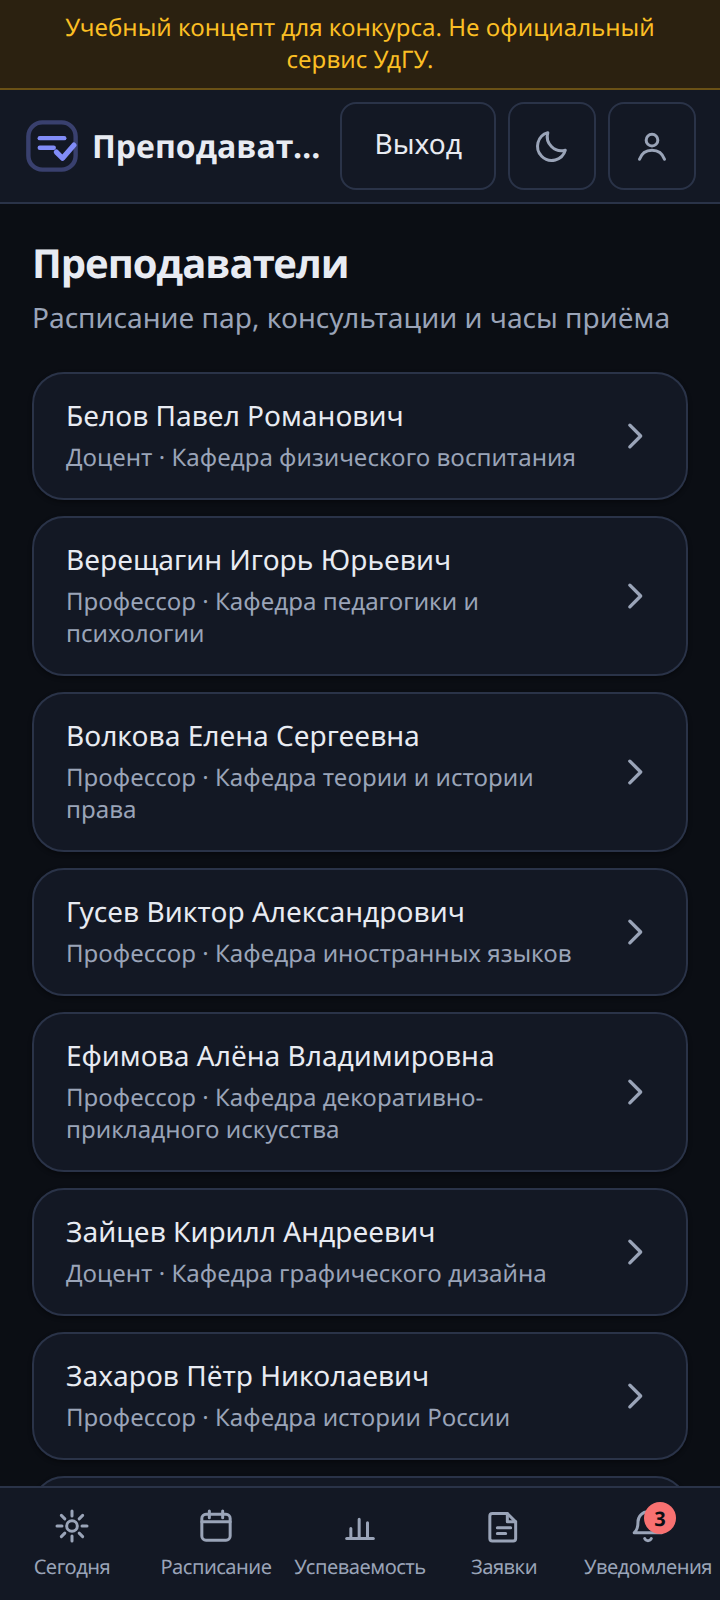
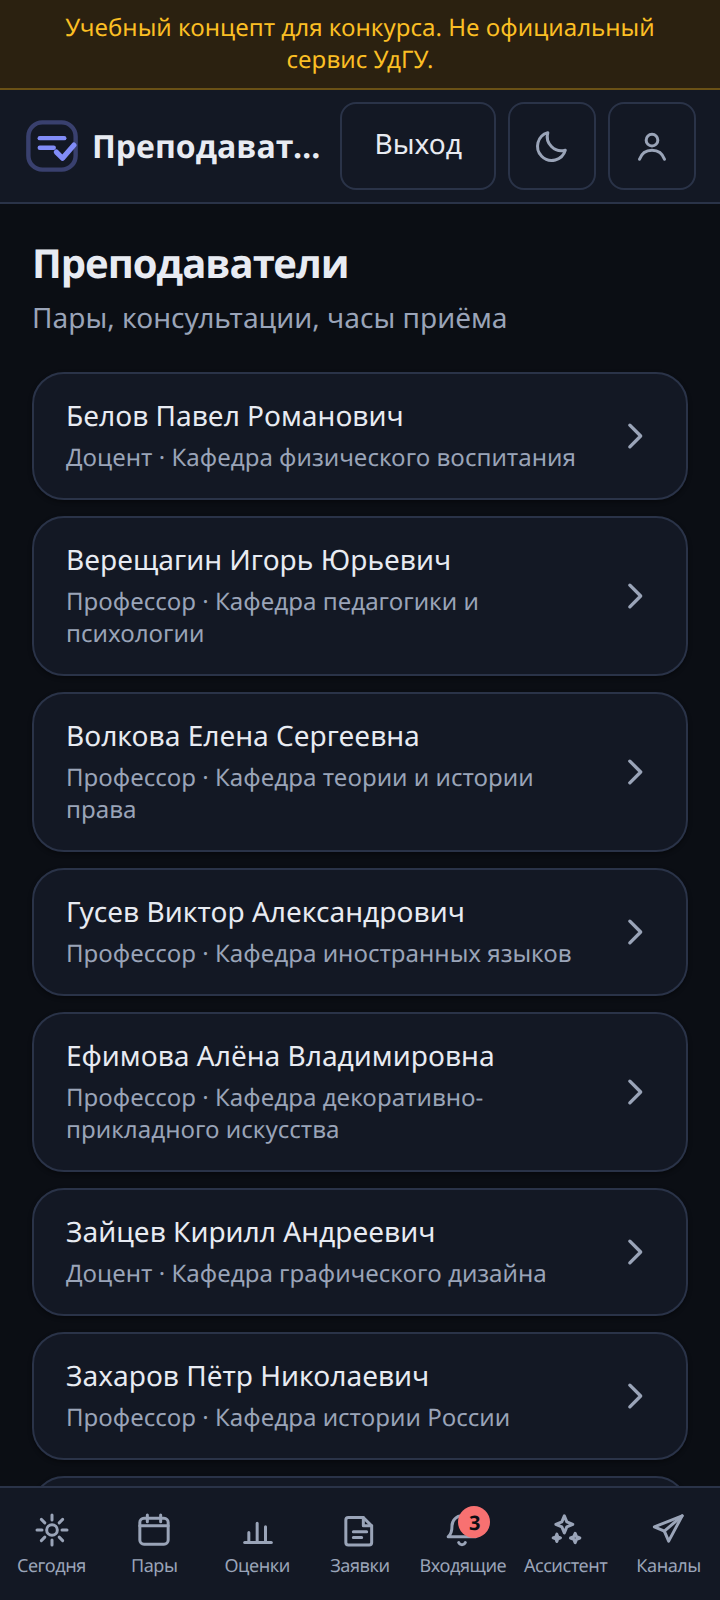
docs(p4): финальная приёмка 55/55, передеплой из master, 20 скриншотов на финальной сборке
Передеплой (этап 16): образ udgu-web:5.0.0 из master 256cd59, migrate
deploy 6/6 через SSH-туннель, пересид 22 пользователя, storage-том
сведён к сидеру (1 демо-план + 4 фото студбилета).

Приёмочный прогон по публичному URL 55/55: вход 5 ролями, 20 страниц
кабинета, гейт верификации, анти-IDOR (404), /staff и /admin студенту
404, ассистент преподавателя по сид-плану, симулятор каналов end-to-end
(заявка из бота видна на сайте — общий бэкенд), отметка о болезни,
CSRF-негатив, security-заголовки, PWA, autoComplete, демо-доступ,
идентичный 401 на неверный пароль и неизвестный логин, rate-limit 429.
9 «фейлов» первого прогона — баги измерительного скрипта (csrfToken,
autoComplete, формат логина), не продукта; разбор в LOG-hermes.

Скриншоты: все 20 пересняты на финальном проде 360×800 @2x. Дефекты
набора исправены: 01-login показывал старый UI с паролем password123,
01-login-demo содержал дашборд вместо входа, ассистенты — пустые
состояния. Горизонтального скролла нет ни на одном экране.

Документы: ACCEPTANCE P4 закрыт, PLAN с результатами, PROCESS.md §9/§10,
LOG-hermes этапы 15–16 + инцидент ветки.

Changed region(s): [[0.1833, 0.9375, 0.9778, 1.0], [0.0611, 0.1875, 0.9167, 0.2188], [0.0306, 0.9375, 0.1528, 1.0]]

diff --git a/docs/LOG-hermes.md b/docs/LOG-hermes.md
@@ -841,3 +841,105 @@ _(далее — по мере исполнения)_
   (после P1.2 и инцидента 17.11) — в процессе зафиксировано: перед
   каждым коммитом проверять `git branch --show-current`, а не только
   `git status`.
+
+---
+
+### Этап 15 (завершён). P4 «Гард против утечки секретов» — QA-гейт и мёрж
+
+- **Задача PO №1:** проверить утечку `session.ts:97` (строка подключения
+  DATABASE_URL с паролем в stderr) и, если она есть, исправить; добавить
+  тест-гард.
+- **Результат проверки: утечки в master НЕТ.** `packages/core/src/session.ts`
+  (411 строк) — строка 97 это комментарий про Secure-cookie; в истории файла
+  `DATABASE_URL` не появлялся (`git log --all -S`); `apps/web/lib/session.ts`
+  чист; `packages/db/src/client.ts` бросает ошибку с ИМЕНЕМ переменной, не
+  значением; ни один `console.*` / `process.std*.write` не печатает значение
+  чувствительной переменной. Дефект был устранён ранее — поэтому этап
+  превращён в регрессионный сторож, чтобы утечка не вернулась.
+- **Воркер OpenCode** (STEPFUN_API_KEY из `~/.stepfun_api_key`, инлайн):
+  `apps/web/test/secret-leak-guard.test.ts` (570 строк, node:test + tsx):
+  обход ВСЕХ исходников монорепо; 4 проверки (логи со значением секрета,
+  postgres-строки с настоящим паролем, `.env` в .gitignore, git-индекс без
+  `.env/*.pem/*.key`) + самопроверка детектора на синтетических образцах.
+  Ложные срабатывания на фикстурах (`stdio.test.ts` со скриптом-пробой,
+  `postgres:***@localhost` в helpers) устранены уточнением реализации —
+  маскировка литералов с сохранением `${...}` и словарь заглушек — код
+  приложения не тронут.
+- **Два решения эскалированы воркером, решены мной:** (1) `NEXT_PUBLIC_*` —
+  исключение НЕ добавлено: строгость гарда важнее, при срабатывании
+  переменную переименуют (сейчас такого кода нет); (2) текстовый гард не
+  видит передачу секрета через промежуточную переменную — принято как
+  документированный размен (data-flow требует парсера).
+- **QA-гейт (прогнано лично):** `npm run typecheck` 5/5; `npm test` **473/473**
+  (db 29 + core 231 + mcp-server 20 + web 193 — гард добавил 6 кейсов);
+  чистая сборка (`rm -rf apps/web/.next`, NODE_ENV не выставлен).
+- Ветка `feat/p4-secret-guard`, коммит `099ca4c`, мёрж `--no-ff` — `256cd59`,
+  запушен. Документы P4 (PROCESS.md §2.1 про инфраструктуру для ИИ-агентов,
+  честность про опров, числа тестов; ACCEPTANCE; README «Для жюри») — тем же
+  коммитом.
+- **Ловушка своего инструментария (зафиксирована):** при чтении файла гарда
+  в выводе инструментов `${realPassword}` отображался как `***` — рантайм
+  Hermes маскирует секретоподобные токены в выводе tools. Я почти принял это
+  за дефект воркера (образец с заглушкой вместо настоящего пароля). Проверка
+  фактом: `od -c` + исполнение детектора — файл корректен, тест зелёный.
+  Урок: подозрительный фрагмент в выводе инструмента проверять байтами и
+  исполнением, не глазами.
+
+### Этап 16 (завершён). P4 «Финальная выкладка, приёмочный прогон, скриншоты»
+
+- **Передеплой из финального master (`256cd59`):** образ `udgu-web:5.0.0`
+  собран из актуального дерева (`docker build -f apps/web/Dockerfile`),
+  перенесён `docker save | gzip | ssh docker load`. Compose-файл на VPS
+  приведён к реальности (плагин `docker compose` на VPS НЕ установлен —
+  деплой через `docker run`, файл оставлен как документация с заголовком).
+  Контейнер пересоздан с явным env (`DATABASE_URL`,
+  `SESSION_COOKIE_SECURE=true`, `NODE_ENV=production`, `STORAGE_DIR=/app/storage`),
+  сеть `udgu-net`, том `udgu-storage-data`.
+- **Миграции:** `prisma migrate deploy` через SSH-туннель — 6 миграций,
+  новых нет. **Сидер:** прогнан через туннель с временным `STORAGE_DIR`;
+  свежие файлы (1 демо-план + 4 фото студбилета) доставлены в том
+  (`tar | docker run --rm -v udgu-storage-data:/data alpine`); прод в
+  pristine-состоянии (22 пользователя, 443 пары, 65 оценок).
+- **Приёмочный прогон по публичному URL — 55/55** (14 секций скрипта):
+  health с БД; аноним → 307/401; вход student1/student2/staff1/teacher1/
+  admin1 → 200; 20 страниц кабинета → 200; гейт верификации (student2 →
+  403); /staff и /admin студенту → 404; анти-IDOR (заявка student1 из сессии
+  student2 → 404); переписка под гейтом; ассистент преподавателя отвечает по
+  сид-плану; симулятор каналов: код привязки → /link → /schedule → /grades →
+  /request; **общий бэкенд: заявка из бота видна на сайте**; отметка о
+  болезни создаётся; POST без CSRF → 403; security-заголовки (CSP, XFO DENY,
+  HSTS); PWA manifest + sw; autoComplete на форме входа; демо-доступ
+  подставляет кнопкой; неверный пароль и неизвестный (валидного формата)
+  логин → идентичный 401; rate-limit → 429.
+- **9 «фейлов» первого прогона были багами СКРИПТА, не продукта** (разбор
+  важен для процесса): поле CSRF называется `csrfToken`, не `token`;
+  атрибут рендерится `autoComplete` (HTML нечувствителен к регистру —
+  браузеры читают); сравнение ошибок входа шло с логином невалидного
+  формата (кириллица → 400 валидации) — с валидным несуществующим логином
+  ответ идентичен 401. Урок: красный прогон — сначала подозревать свой
+  измеритель, потом продукт.
+- **Скриншоты: все 20 пересняты** на финальном проде при 360×800 @2x.
+  Дефекты набора, найденные при приёмке: `01-login.png` показывал старый UI
+  с паролем `password123` (то самое, что правил BRIEF v4), `01-login-demo.png`
+  содержал дашборд вместо экрана входа, `02–10` сняты до финальной навигации,
+  `13/20` — пустые состояния ассистентов. После пересъёмки: вход +
+  демо-подстановка, все экраны с реальными данными, ассистенты с ответами
+  (долги студента с окнами закрытия и левериджем; цитаты учебного плана).
+  Горизонтального скролла нет ни на одном проверенном экране (360 px).
+
+### Инцидент (зафиксирован). Соседняя сессия перекоммитила документы и переключила ветку (18.11, 08:13–08:23)
+
+- **Факты:** пока шёл мой QA-гейт этапа 15, main-сессия владельца
+  закоммитила свои P4-документы (`df3908b` = PROCESS.md, ACCEPTANCE, README,
+  LOG-hermes этапы 12–13) В МОЮ ветку `feat/p4-secret-guard`, затем
+  перевыложила прод и прогнала приёмку 26/26 (`7fa8f10`), приняв мою ветку
+  за свою: её doc-коммит лёг на master как `f3bb337`, моя ветка была
+  сброшена на `2da877a`. Мой коммит этапа 15 (`4c61c98`) осел напрямую на
+  master — HEAD переключили под живой сессией.
+- **Разрешение:** master сброшен на origin (`72ff80f`), коммит перенесён на
+  ветку cherry-pick'ом (`099ca4c`), мёрж `--no-ff` (`256cd59`), push.
+  Содержание документов соседа проверено мной по истории git (этапы 12–13
+  соответствуют коммитам `ae88426`/`e0babc5`/`2da877a`), ущерба нет.
+- **Итог:** четвёртый случай переключения ветки внешним актором (после P1.2
+  и двух инцидентов 17.11). Правило подтверждено: перед каждым коммитом
+  `git branch --show-current`; «уже в master» — утверждение, не доказательство.

diff --git a/docs/PROCESS.md b/docs/PROCESS.md
@@ -225,12 +225,15 @@ WCAG 2.2 AA по размеру целей.
 
 ## 9. Скриншоты ключевых экранов
 
-Сняты на проде `https://177-3-196-28.nip.io` при ширине viewport 360 px
-(мобильный сценарий — первый класс, не адаптация). Каталог: `docs/screenshots/`.
+Сняты на проде `https://177-3-196-28.nip.io` 18 ноября 2026 при ширине
+viewport 360 px (мобильный сценарий — первый класс, не адаптация), по
+одному на каждый экран кабинета, под реальными тестовыми аккаунтами.
+Каталог: `docs/screenshots/`.
 
 | Файл | Экран |
 |---|---|
-| `01-login.png` | Вход: логин/пароль, кнопки VK ID / MAX / Telegram, демо-доступы, баннер концепта |
+| `01-login.png` | Вход: логин/пароль, кнопки VK ID / MAX / Telegram, баннер концепта |
+| `01-login-demo.png` | Тот же экран после кнопки «Демо-доступ»: логин и пароль подставлены — жюри не набирает пароль руками |
 | `02-dashboard.png` | «Сегодня»: ближайшая пара, расписание дня, свободные окна |
 | `03-schedule.png` | Расписание: неделя, переносы и отмены заметными бейджами |
 | `04-grades.png` | Успеваемость: «Как у меня дела», средний балл, тренд, долги, «что подтянуть» |
@@ -242,7 +245,7 @@ WCAG 2.2 AA по размеру целей.
 | `10-profile.png` | Профиль: институт, направление, курс, группа, статус верификации |
 | `11-channels.png` | «Каналы»: три канала с пометкой «демо-режим», код привязки, симулятор, inbox уведомлений |
 | `12-messages.png` | Переписка: диалоги, непрочитанные, автор с ФИО и группой |
-| `13-assistant.png` | Ассистент студента: чипы вопросов, ответ по своим данным |
+| `13-assistant.png` | Ассистент студента: вопрос чипом и ответ по своим данным (долги, окна для закрытия, леверидж) |
 | `14-staff.png` | Кабинет сотрудника: сводка очередей института |
 | `15-staff-requests.png` | Очередь заявок: решение с комментарием студенту |
 | `16-staff-verifications.png` | Верификация студбилетов: распознанные поля, фото через авторизованный роут |
@@ -256,8 +259,12 @@ WCAG 2.2 AA по размеру целей.
 
 ## 10. Что осталось дальше (роадмап)
 
-- **P4 (в работе):** перевыкладка текущего master на Helsinki VPS (боты, MCP, ассистенты),
-  финальная проверка по URL, видео-демонстрация ≤5 мин (по желанию).
+- **P4 сдан:** прод перевыложен из финального master (образ `udgu-web:5.0.0`,
+  миграции и сидер применены), приёмочный прогон по публичному URL — 55/55,
+  скриншоты обновлены на финальной сборке. Остаётся личная приёмка PO по URL
+  и (по желанию) видео-демонстрация ≤5 мин — в этой итерации не снималось:
+  приоритет отдан работающему прототипу и документам, видео без репетиции
+  сценариев добавило бы меньше, чем стоимость его производства.
 - **После прототипа:** реальные токены ботов (Telegram/VK/MAX) включаются одной переменной
   окружения — адаптеры уже написаны; реальный OCR вместо мока в верификации студбилетов;
   подключение настоящего LLM-ключа (`ASSISTANT_LLM_*`) для переформулировки ответов

diff --git a/docs/ACCEPTANCE.md b/docs/ACCEPTANCE.md
@@ -2,10 +2,10 @@
 
 Проверяю каждый приоритет (P1–P4) по этому списку. Отметка «ок» — только после личной проверки.
 
-> Статусы выставлены по QA-гейту Hermes (этапы 1–13 в `docs/LOG-hermes.md`):
+> Статусы выставлены по QA-гейту Hermes (этапы 1–16 в `docs/LOG-hermes.md`):
 > typecheck 5/5 воркспейсов, `npm test` **473/473** (db 29 + core 231 + mcp-server 20 + web 193,
 > включая гард против утечки секретов), чистая прод-сборка, `db:seed`, живые HTTP-прогоны
-> на прод-сборке, браузер 360 px.
+> на проде (финальный приёмочный прогон 18.11 — 55/55 по публичному URL).
 > Пункты «нужен глаз PO» автоматом не проверяются (субъективное качество UI).
 
 ## P1 — Ядро
@@ -65,11 +65,11 @@
 - [ ] Итоговый визуальный осмотр «хочется ли пользоваться каждый день» — нужен глаз PO
 
 ## P4 — Сдача
-- [x] Деплой на Helsinki VPS, HTTPS, открывается из РФ без VPN
-- [~] Тестовые аккаунты работают на проде — требуется перевыкладка текущего master (боты + MCP) и проверка PO по URL
+- [x] Деплой на Helsinki VPS, HTTPS, открывается из РФ без VPN — финальная выкладка 18.11 из master: образ udgu-web:5.0.0, migrate deploy (6 миграций, новых нет), пересид (22 пользователя), storage-том
+- [x] Тестовые аккаунты работают на проде — приёмочный прогон 18.11: вход student1/student2/staff1/teacher1/admin1 → 200; все страницы кабинета → 200
 - [x] Документ процесса: проблема, ИИ-инструменты, промпты, скриншоты, защита — docs/PROCESS.md
-- [ ] Видео ≤5 мин (по желанию)
-- [x] Финальный проход по чек-листу кейса (docs/CASE.md) — разбор соответствия в docs/PROCESS.md
+- [ ] Видео ≤5 мин (по желанию) — не снималось в этой итерации (обоснование — PROCESS.md §10)
+- [x] Финальный проход по чек-листу кейса (docs/CASE.md) — разбор соответствия в docs/PROCESS.md; живой прогон 55/55 (этап 16, LOG-hermes)
 
 ## Правило приёмки
 Любой failing пункт — возврат Hermes на доработку с конкретикой (что проверял, что получил). P2/P3/P4 не начинаются, пока P1 не принят.

diff --git a/docs/PLAN.md b/docs/PLAN.md
@@ -27,8 +27,8 @@
 - [x] Мобильный 360 px, тёмная тема (по умолчанию, решение Council), WCAG AA (контраст-тест токенов), PWA (манифест, иконки, service worker)
 
 ## P4 — Сдача
-- [x] Деплой на Helsinki VPS, HTTPS (Caddy + Let's Encrypt), открывается из РФ без VPN — https://177-3-196-28.nip.io/
-- [ ] Финальный чек-лист кейса, тестовые аккаунты на проде, документ процесса (в работе)
+- [x] Деплой на Helsinki VPS, HTTPS (Caddy + Let's Encrypt), открывается из РФ без VPN — https://177-3-196-28.nip.io/ (финальная выкладка 18.11: образ udgu-web:5.0.0 из master, migrate deploy 6/6, пересид 22 пользователя, storage-том)
+- [x] Финальный чек-лист кейса, тестовые аккаунты на проде, документ процесса — ACCEPTANCE 55/55 в живом прогоне (этап 16), docs/PROCESS.md, 20 скриншотов на финальной сборке; остаётся личная приёмка PO по URL и (по желанию) видео ≤5 мин
 
 ## Приёмка PO
 После каждого приоритета — проверка по критериям `docs/BRIEF.md` (раздел «Критерии приёмки PO») и чек-листу `docs/ACCEPTANCE.md`, затем следующий приоритет.
